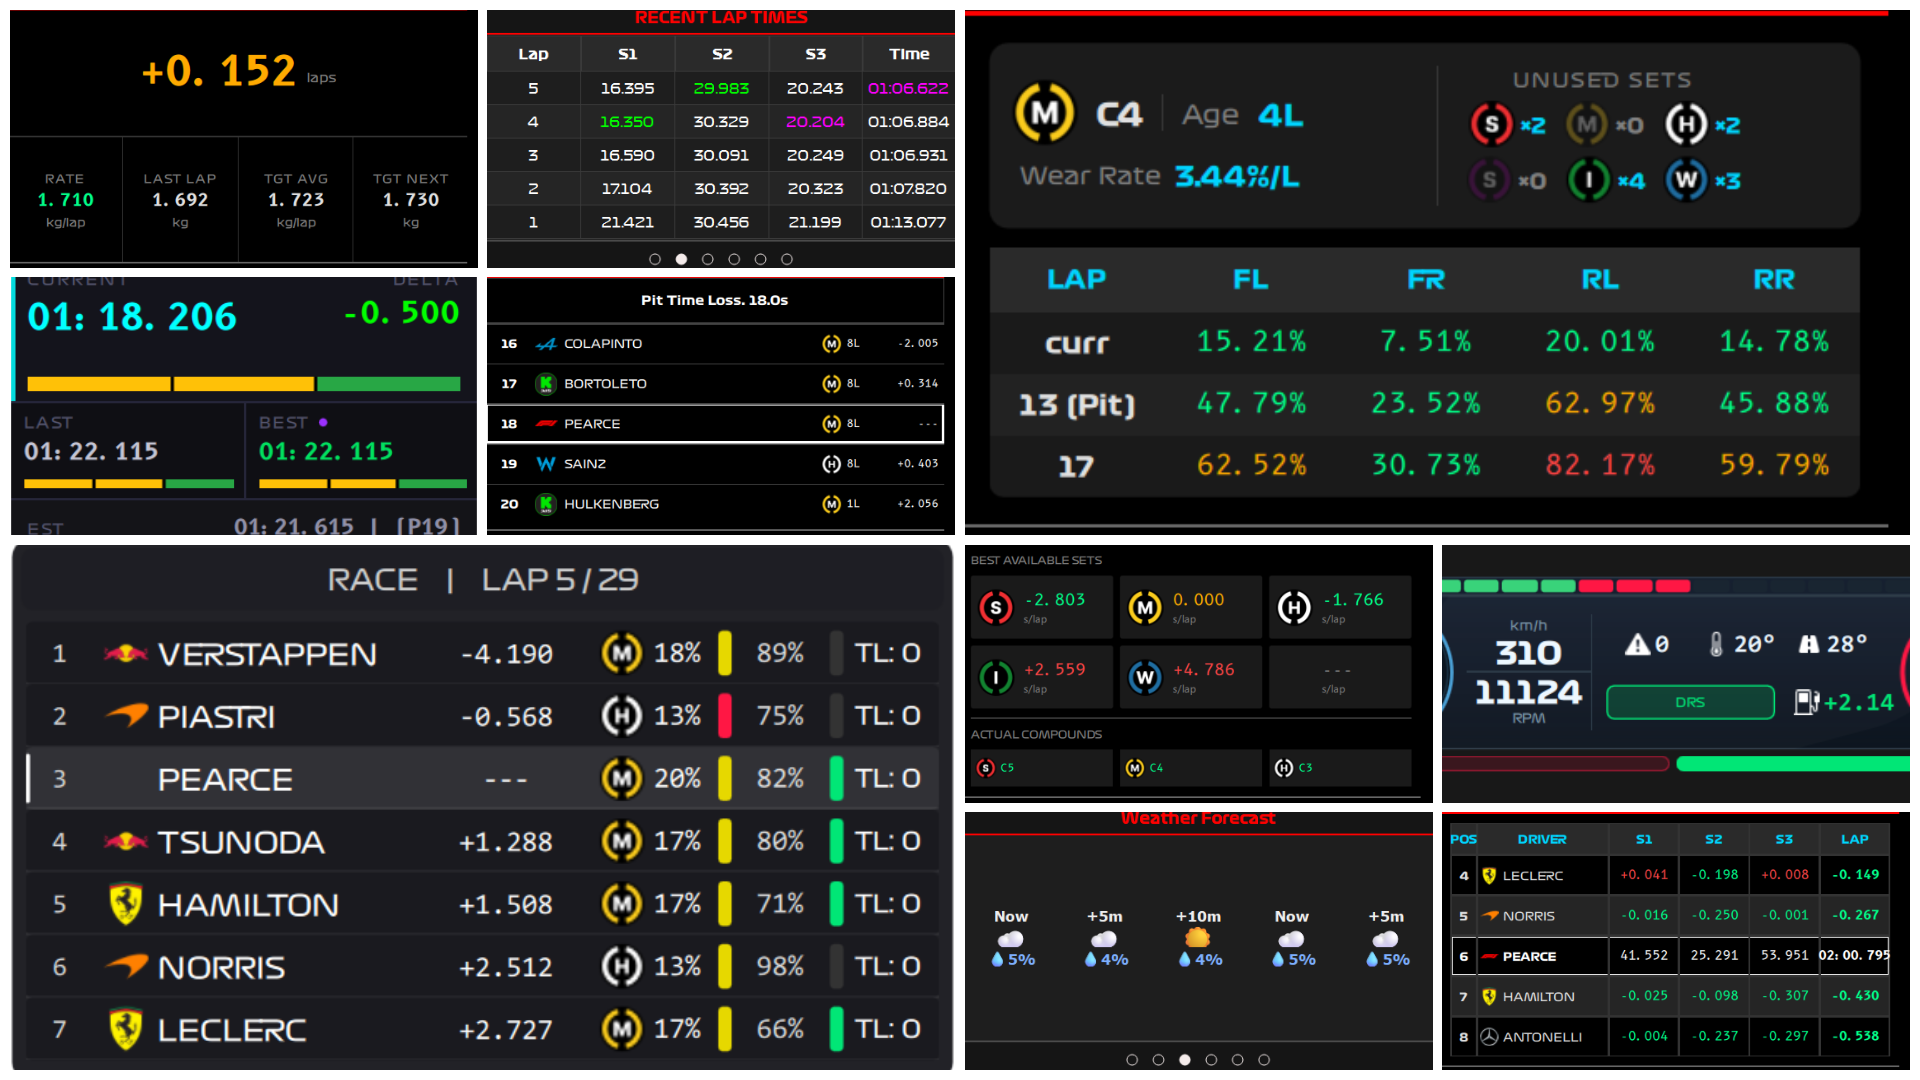
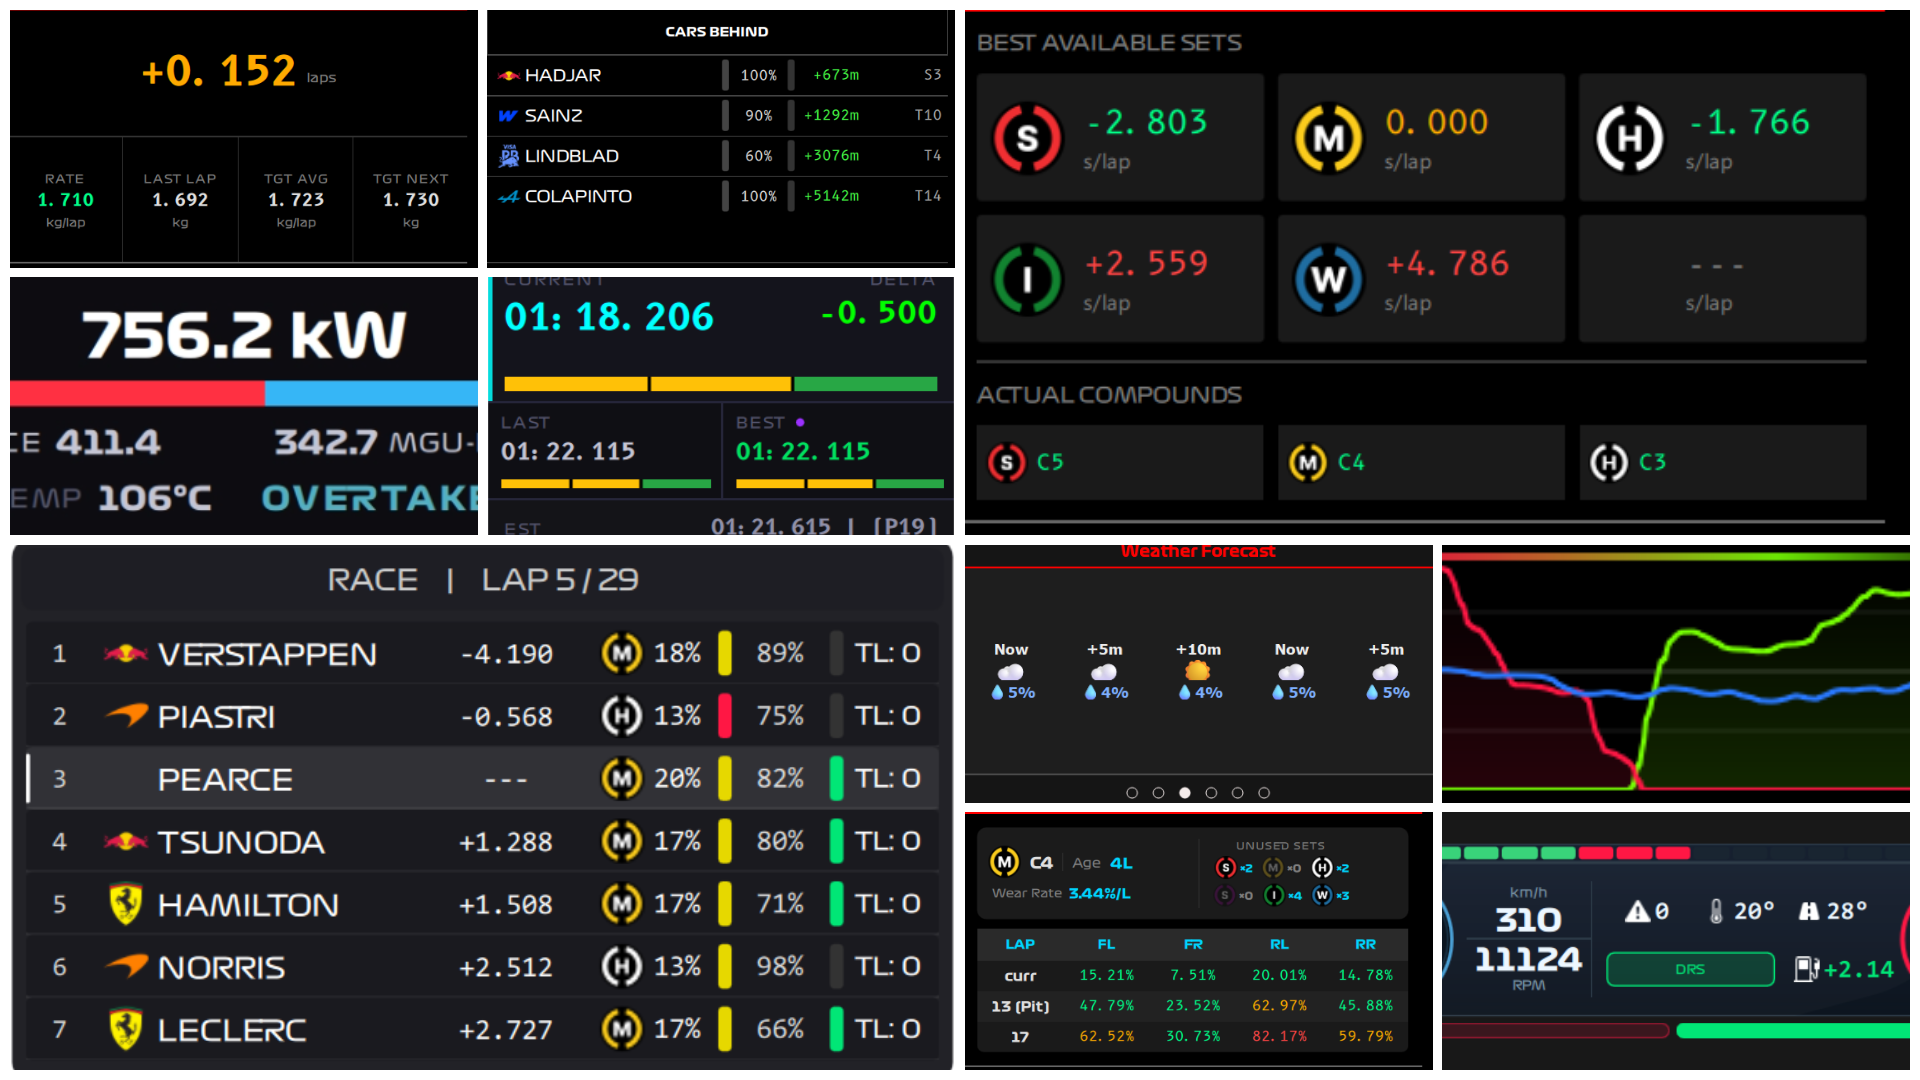
screenshot update

diff --git a/README.md b/README.md
@@ -65,9 +65,10 @@ Click any driver (preferably not during a fast lap):
 ---
 
 ## Supported Games
-- **F1 2023**
-- **F1 2024**
-- **F1 2025**
+- **F1 23**
+- **F1 24**
+- **F1 25**
+- **F1 25 (2026 Season Pack)**
 
 ---
 